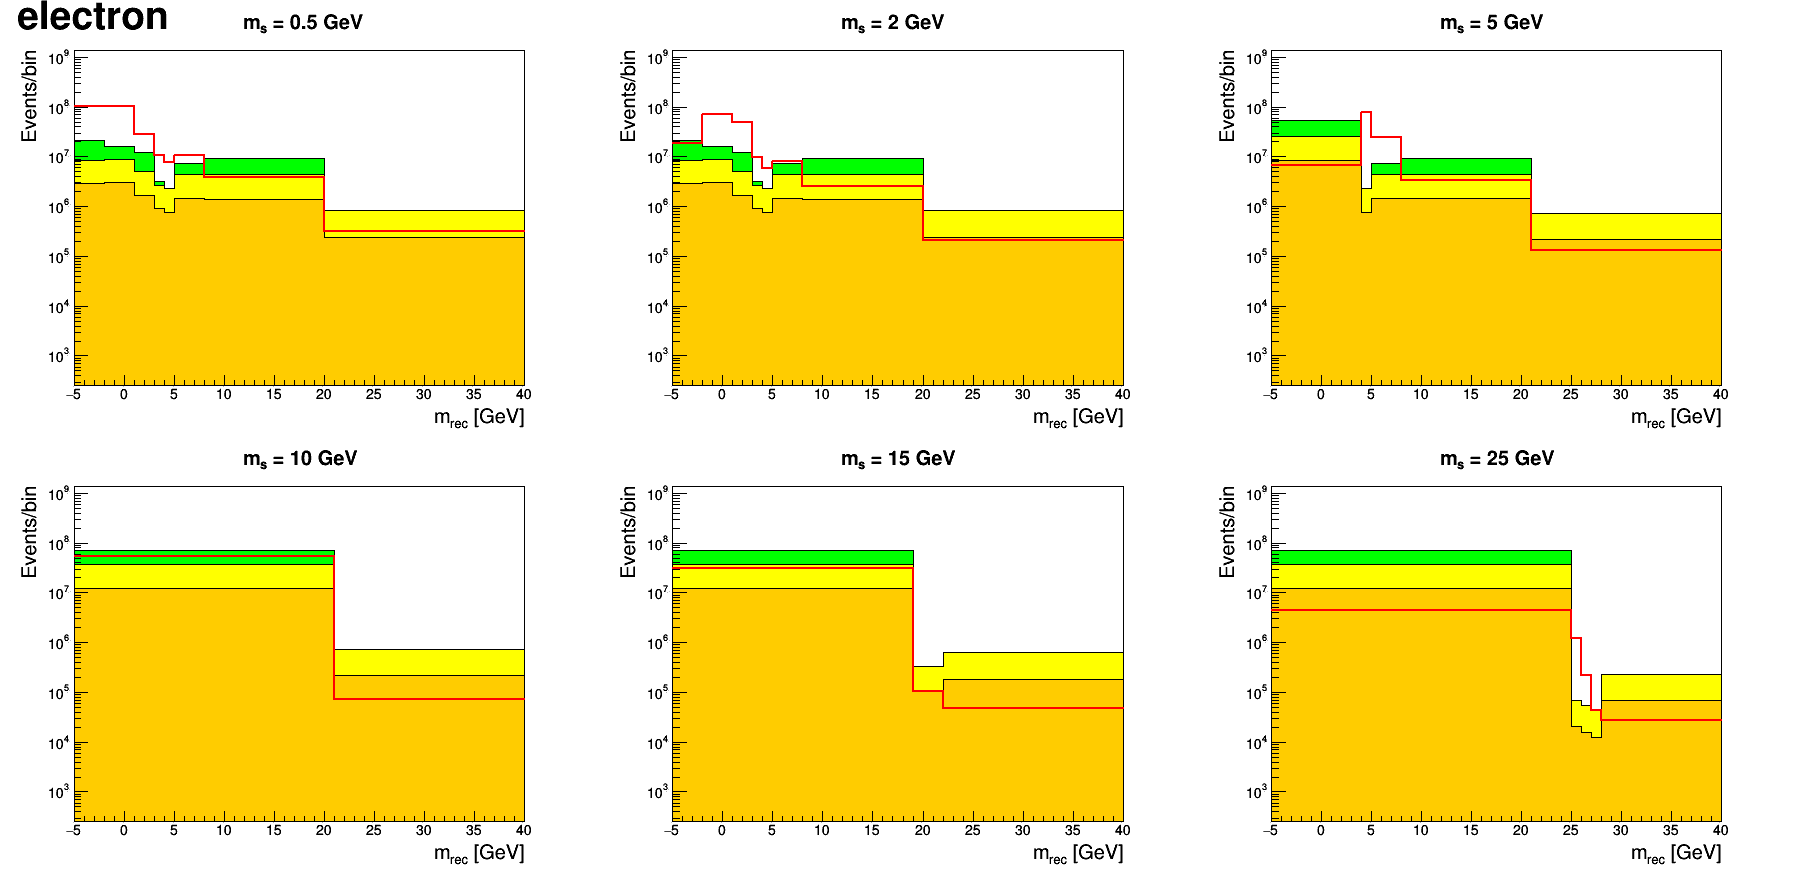
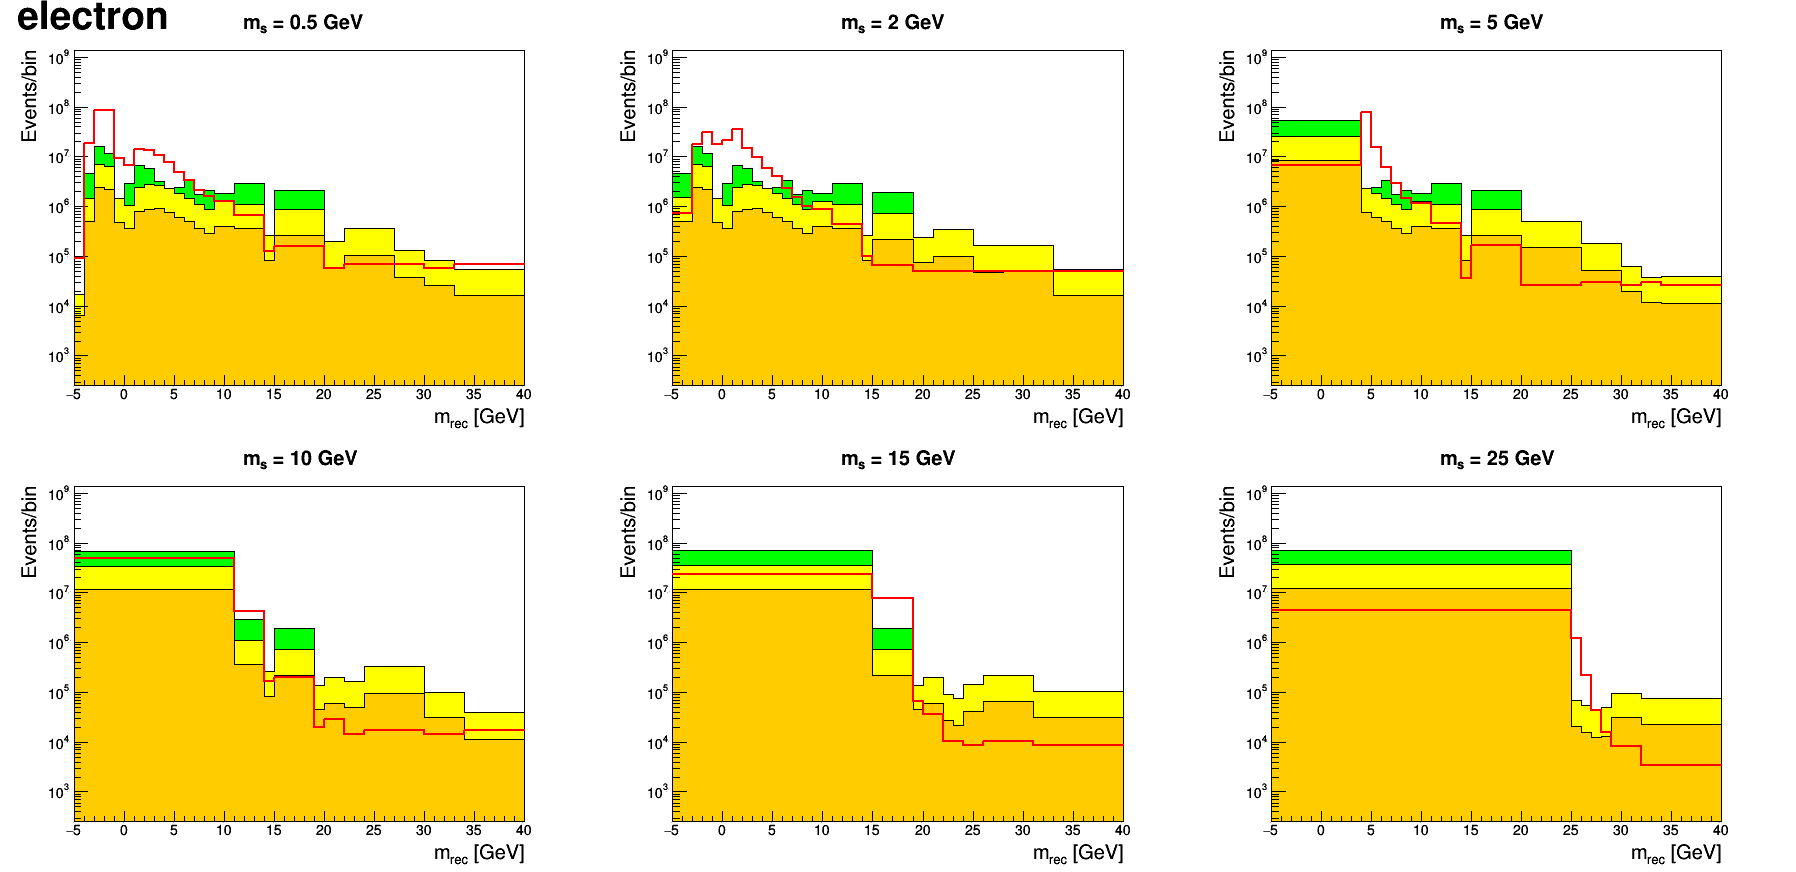
rec mass plots

diff --git a/scripts/cutflow_in_dev.py b/scripts/cutflow_in_dev.py
@@ -21,8 +21,8 @@ combine_path = '../combine/'
 output_suffix = 'IDEA_500MeV'
 ctf_hist_file = ROOT.TFile(hist_path + "cutflow_hists_" + output_suffix + ".root",
                           "RECREATE") # root file to store all cutflow hists
-bin_option = "manual"
-#bin_option = "auto"
+#bin_option = "manual"
+bin_option = "auto"
 channels = ['electron', 'muon']
 lumi = 150 * 10 ** 6
 
@@ -168,6 +168,8 @@ ctf_plot_param['mrec'] = {
 'xtitle':'m_{rec}',
 'scale':'logy'
 }
+max_stat = 0.45 # max ratio between bin error and bin count
+max_sig_stat = 0.45 # for signal
 
 for cutname, params in ctf_plot_param.items():
 	params['binsize'] = (params['xmax'] - params['xmin']) / float(params['nbins'])
@@ -587,8 +589,8 @@ for fs_chn in channels:
 			b = atb.AutoRebin(
 				bkg_mrec_tot[fs_chn].Clone("b_bkg_copy"), 
 				hist.Clone("h_sig_copy"), 
-				0.2, 
-				0.2
+				max_stat, 
+				max_sig_stat
 			)
 			b.rebin() 
 			binning[fs_chn][pd_chn] = array('d',b.getBinArray()) #enforcing type 
